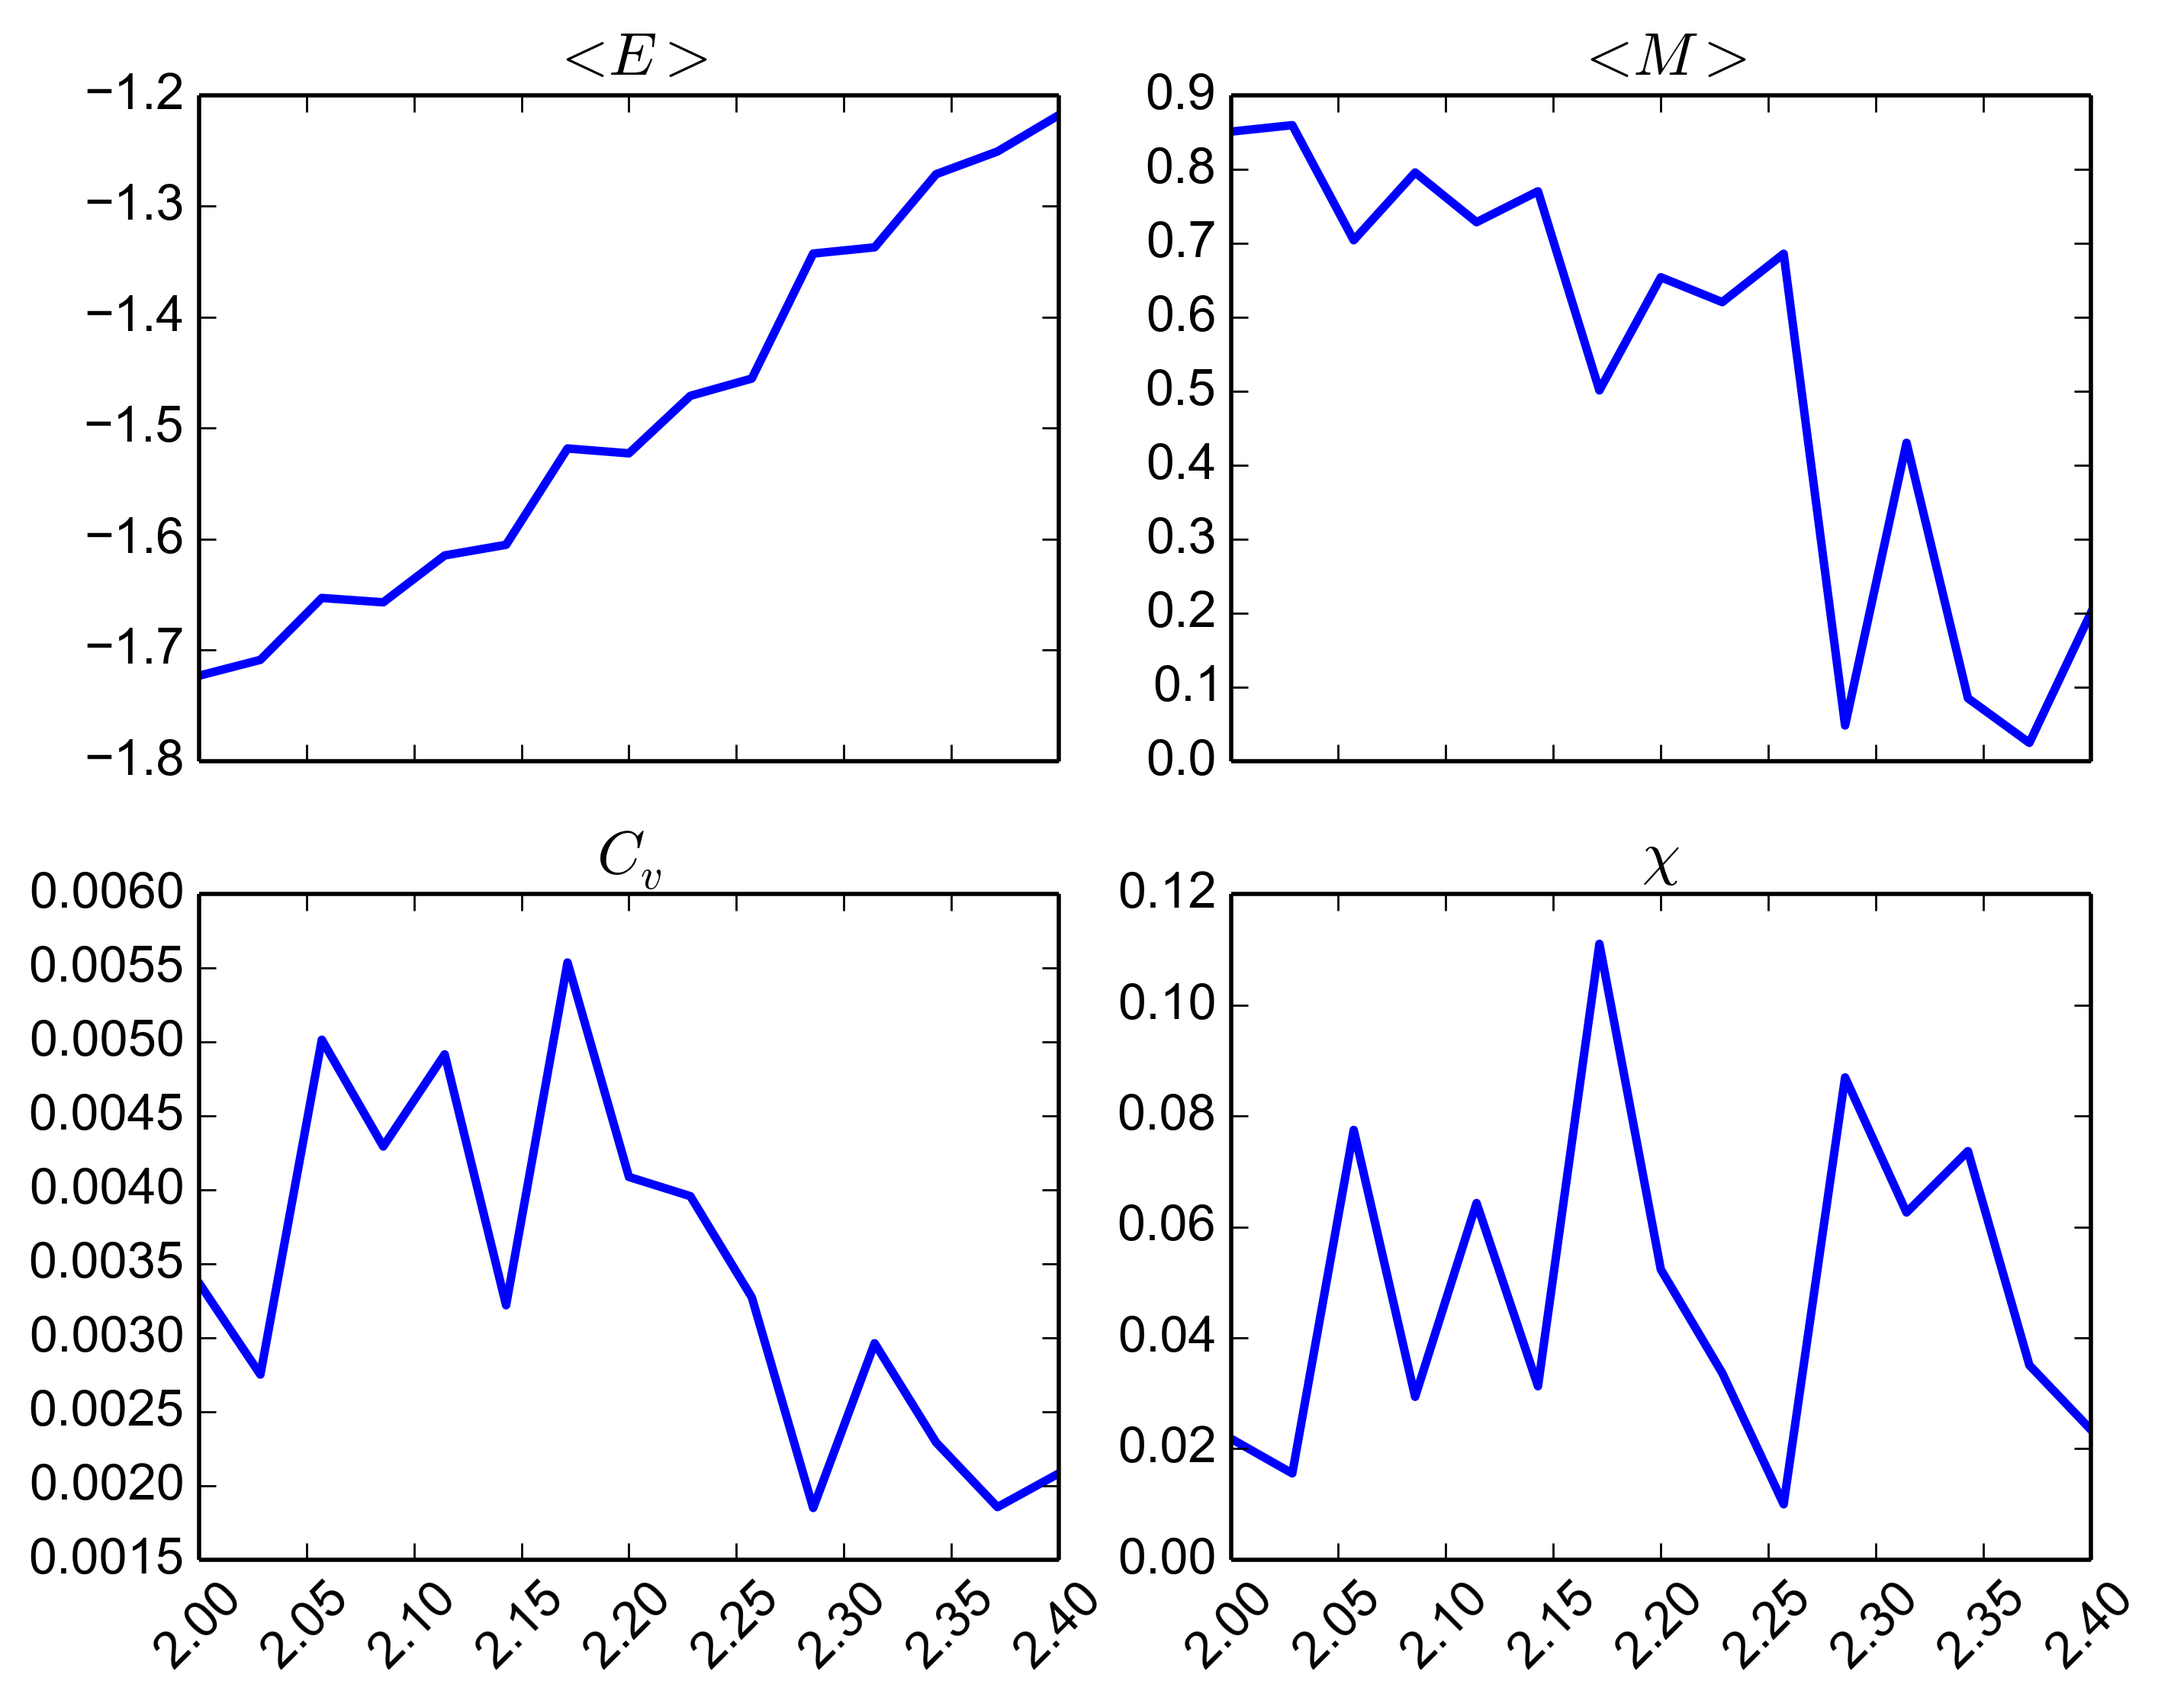
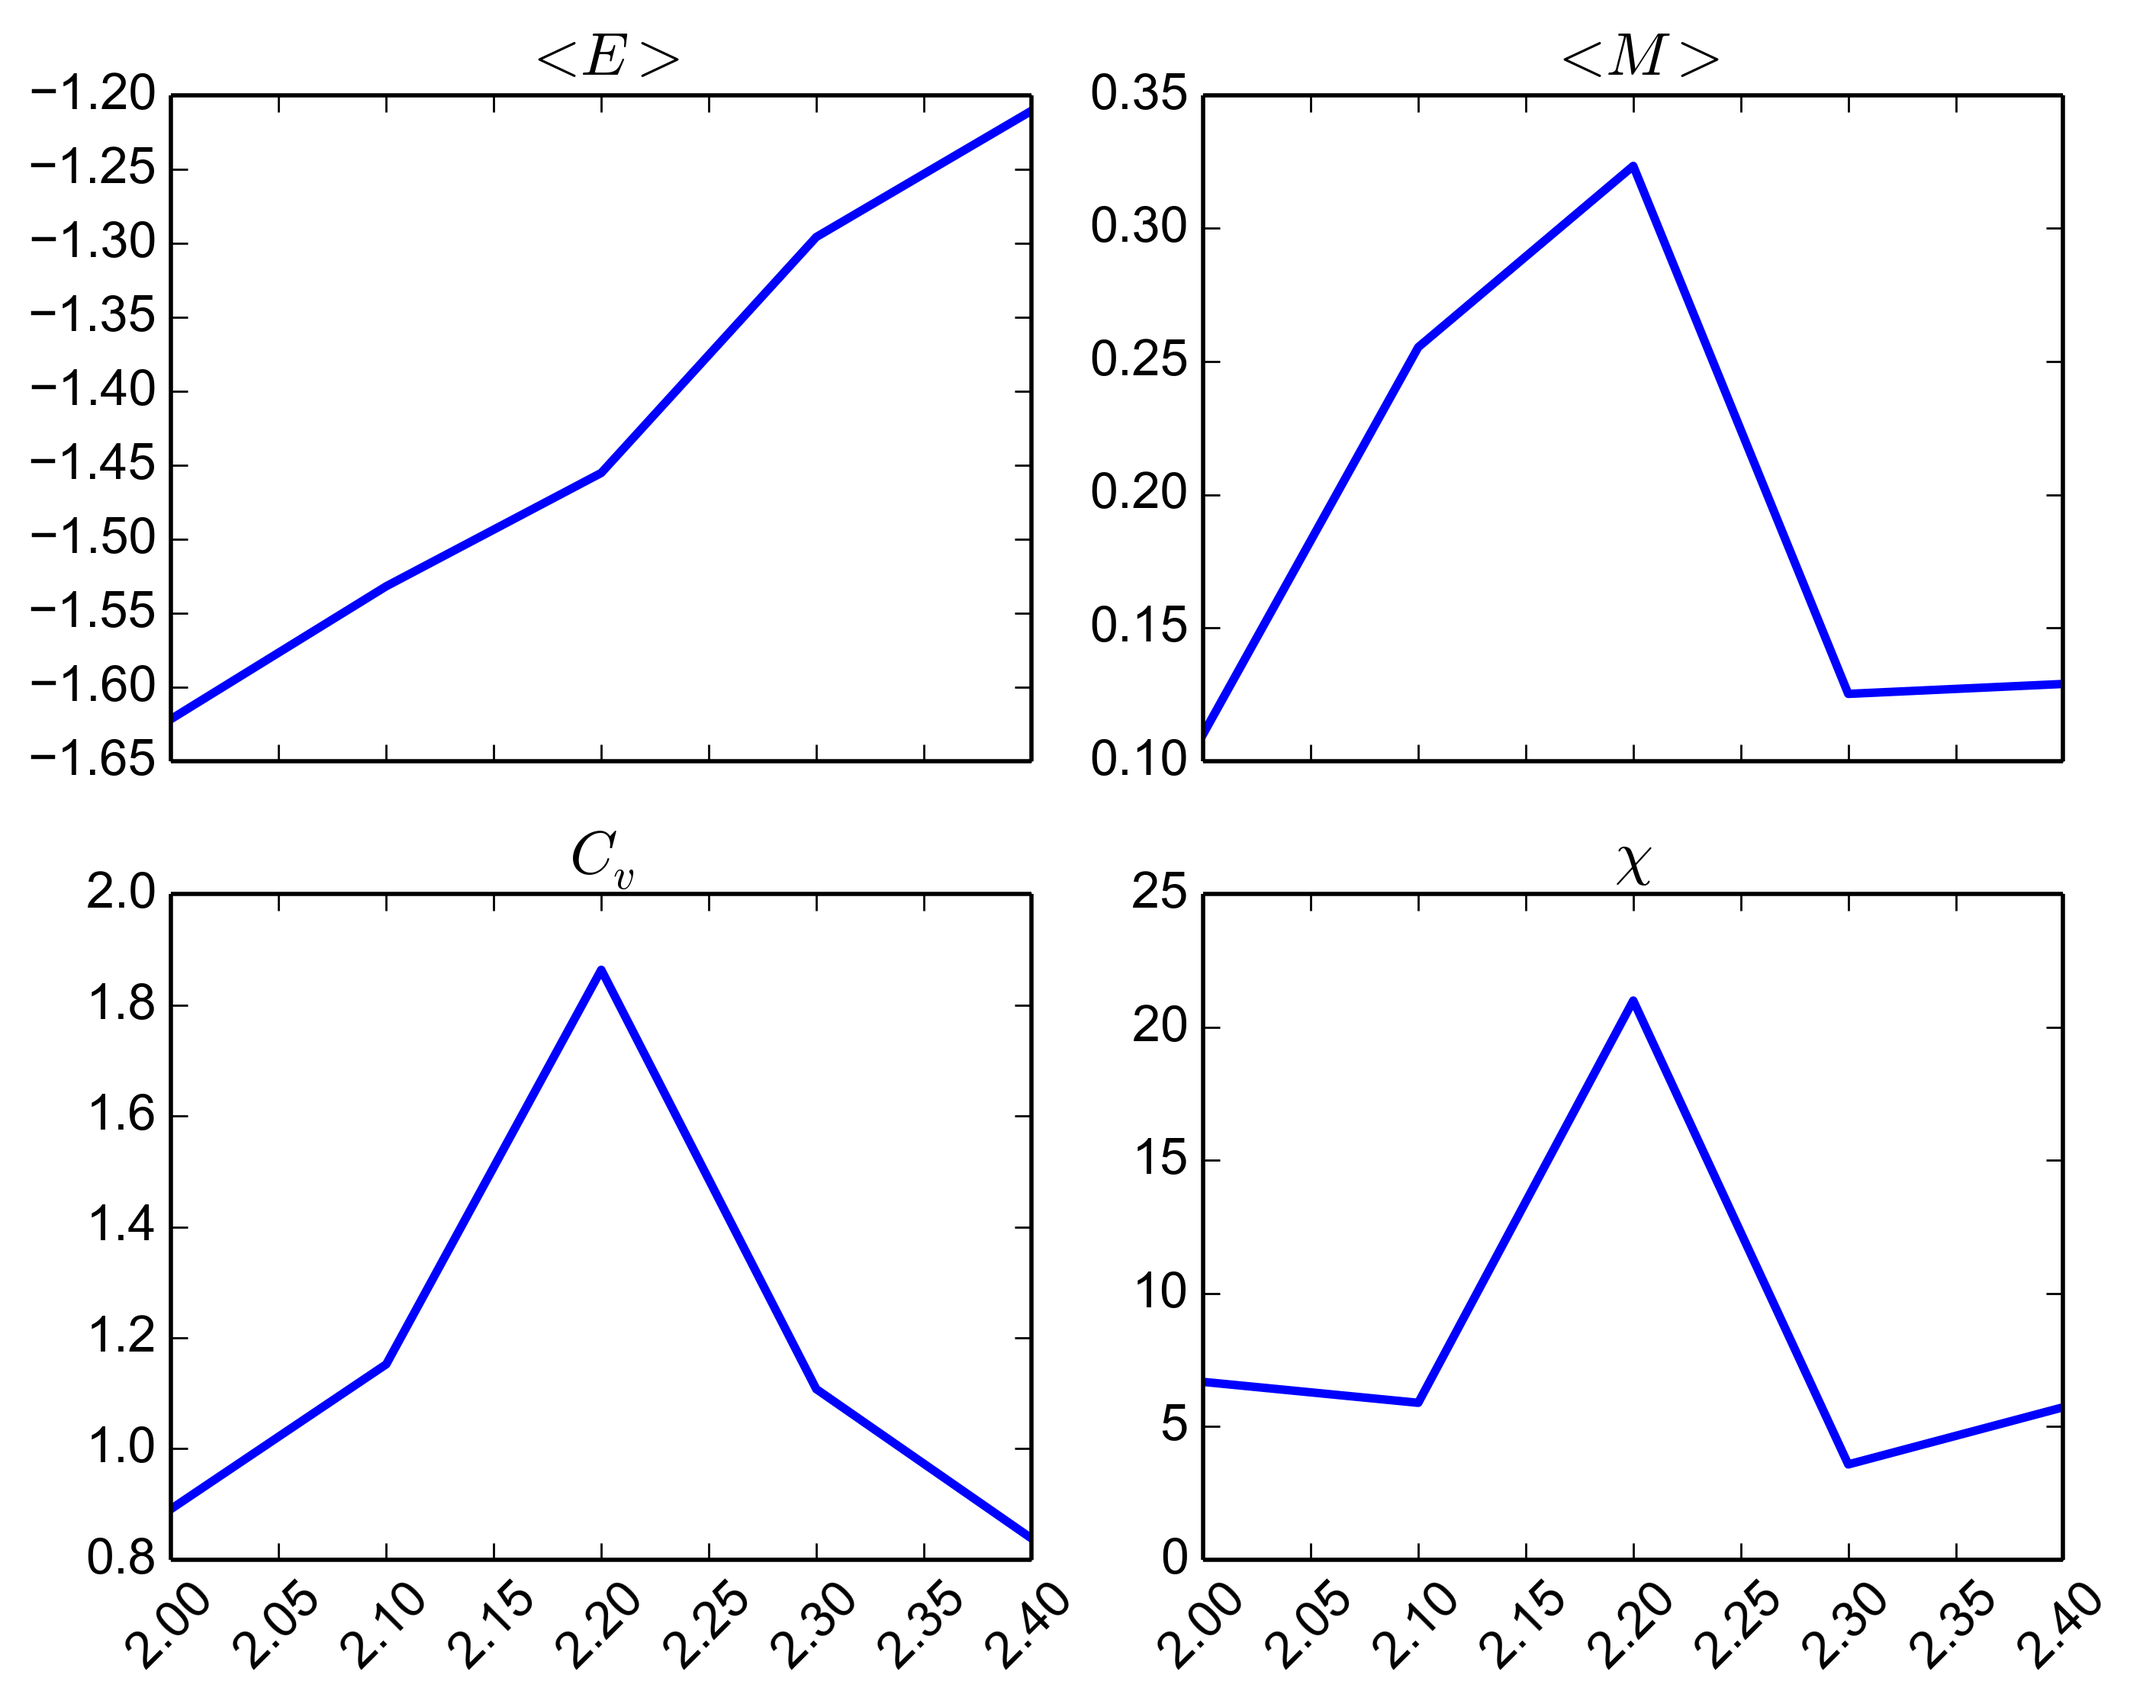
pics

diff --git a/Project 4/plot_project4.py b/Project 4/plot_project4.py
@@ -41,7 +41,7 @@ def chi(beta, Z):
 
 
 #a) + b) 2x2 lattice
-if (True):
+if (False):
   N = 50
   Ts = np.linspace(1, 5, N)
   E_measured = [0]*N
@@ -186,7 +186,6 @@ if (False):
   plt.show()
 
 #e) Critical temperature
-"""
 for dim in [20, 40, 60, 80, 100]:
   command = ['./project4', 'e', str(dim)]
 
@@ -238,5 +237,5 @@ for dim in [20, 40, 60, 80, 100]:
   pic_filename = os.path.join(saveloc, 'e{}.png'.format(dim))
   plt.savefig(pic_filename,dpi=400,bbox_inches='tight')
   plt.show()
-    """
+
   

diff --git a/Project 4/report/report.tex b/Project 4/report/report.tex
@@ -1,4 +1,4 @@
-\documentclass[11pt,a4paper,english,draft]{article}
+\documentclass[11pt,a4paper,english]{article}
 \usepackage[english]{babel} % Using babel for hyphenation
 \usepackage{lmodern} % Changing the font
 \usepackage[utf8]{inputenc}
